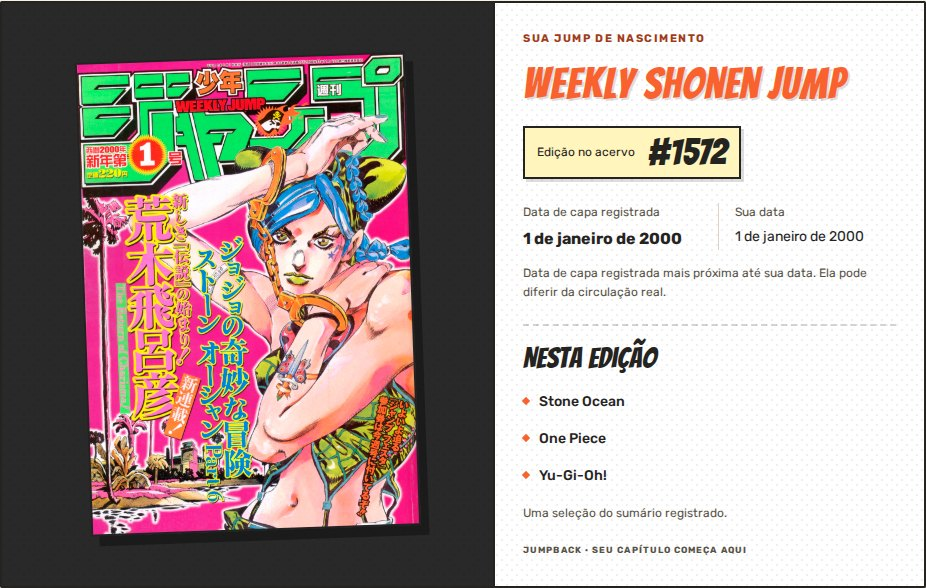
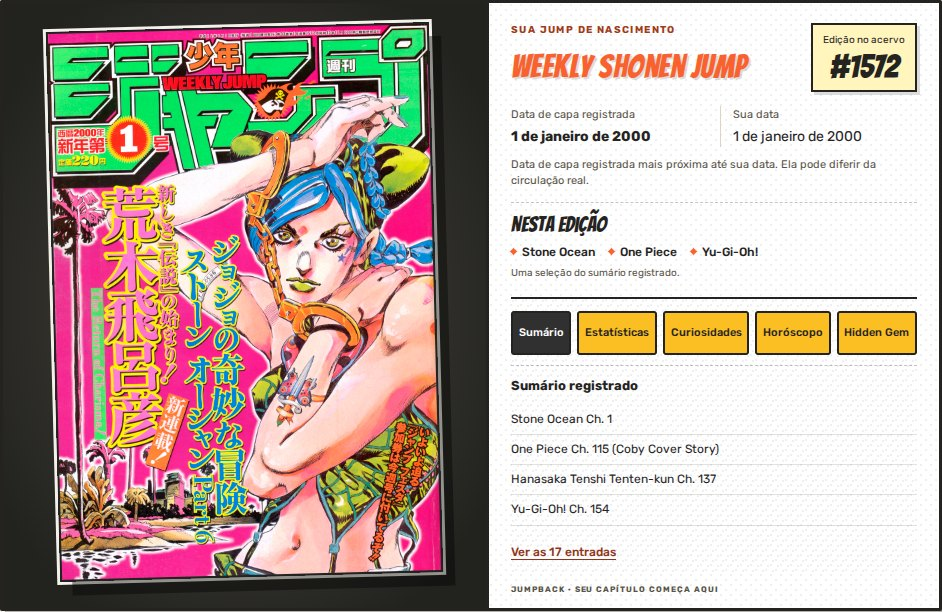
feat: compact results around a larger cover

diff --git a/src/css/reveal.css b/src/css/reveal.css
@@ -197,57 +197,66 @@ body.reveal-edition .date-picker:focus-visible { outline: 3px solid #146a9e; out
 .reveal-edition .mascot-panels-wrapper > .panel { display: flex; flex: 1; flex-direction: column; align-items: center; width: 100%; min-height: 230px; margin: 0; padding: 0; overflow: hidden; border: 3px solid var(--ink); background: white var(--comic-dot-pattern); box-shadow: 5px 5px 0 #0004; transform: skew(-1deg, -.5deg); }
 .reveal-edition .mascot-panels-wrapper .speech-bubble { align-self: stretch; max-width: none; margin: 14px 12px 8px; padding: 10px; font: 400 13px/1.5 var(--font-body); border: 2px solid var(--ink); border-radius: 14px; background: white; color: var(--ink); transform: skew(1deg, .5deg); z-index: 2; }
 .reveal-edition .mascot, .reveal-edition .mascot2 { flex: 1; width: 90%; max-width: none; height: 150px; min-height: 150px; margin: 0; background-size: contain; background-position: bottom center; background-repeat: no-repeat; animation: none; transform: skew(1deg, .5deg); }
-.results-page.reveal-edition .manga-page { display: flex; flex-direction: column; gap: 24px; }
+.results-page.reveal-edition .manga-page { display: flex; flex-direction: column; width: min(1120px, 100%); max-width: 1120px; gap: 16px; }
+body.results-page.reveal-edition { padding-block: 16px; }
+.results-page.reveal-edition .header-panel.masthead { height: 68px; min-height: 68px; }
+.results-page.reveal-edition .header-panel .logo { height: 96px; }
 .reveal-main { min-width: 0; }
 .result-status { margin: 0 0 18px; font-size: 13px; color: var(--muted-ink); }
 .result-status:empty { display: none; }
-.result-card.panel { display: grid; grid-template-columns: minmax(0, 1.15fr) minmax(0, 1fr); align-items: stretch; gap: 0; padding: 0; overflow: hidden; background: white; border: 2px solid var(--ink); border-radius: 2px; box-shadow: 5px 5px 0 #0004; transform: none; }
-.cover-stage { position: relative; display: flex; flex-direction: column; align-items: center; justify-content: center; gap: 12px; min-width: 0; min-height: 500px; padding: 30px; background: #292929 var(--comic-dot-pattern); border-right: 2px solid var(--ink); }
-.cover-stage .magazine-cover { display: block; width: 100%; max-width: 330px; height: auto; max-height: 510px; object-fit: contain; box-shadow: 8px 10px 0 #0005; transform: rotate(-2deg); }
-.cover-placeholder { display: grid; place-content: center; width: min(330px, 100%); min-height: 390px; padding: 24px; text-align: center; font: 400 28px var(--font-heading-comic); color: var(--muted-ink); background: #e2dac7; border: 2px dashed #a69d88; }
+.reveal-main[aria-busy='false'] > .result-status { position: absolute; width: 1px; height: 1px; overflow: hidden; clip-path: inset(50%); margin: 0; }
+.result-card.panel { display: grid; grid-template-columns: minmax(0, 1.08fr) minmax(0, 1fr); align-items: stretch; gap: 0; padding: 0; overflow: clip; background: white; border: 3px solid var(--ink); border-radius: 2px; box-shadow: 5px 5px 0 #0004; transform: none; }
+.cover-stage { position: relative; display: flex; flex-direction: column; align-items: center; justify-content: center; gap: 12px; min-width: 0; min-height: 540px; padding: 24px; background: radial-gradient(ellipse at center, #4b4940, #22221f 85%); border-right: 3px solid var(--ink); }
+.cover-stage .magazine-cover { display: block; width: auto; max-width: min(100%, 400px); height: auto; max-height: 550px; object-fit: contain; box-shadow: 12px 14px 0 #0006, 0 0 0 3px #f4f1ea; transform: rotate(-1.5deg); }
+.cover-placeholder { display: grid; place-content: center; width: min(380px, 100%); min-height: 430px; padding: 24px; text-align: center; font: 400 28px var(--font-heading-comic); color: var(--muted-ink); background: #e2dac7; border: 2px dashed #a69d88; }
 #coverStatus { font-size: 12px; color: #f4f1ea; text-align: center; }
 #coverStatus:empty { display: none; }
 #retryCoverButton { padding: 10px 14px; font: 500 13px var(--font-body); color: var(--ink); background: var(--comic-yellow); border: 2px solid var(--ink); cursor: pointer; }
-.reveal-copy { display: flex; flex-direction: column; align-items: flex-start; padding: 28px; background: white var(--comic-dot-pattern); }
-.reveal-copy > .eyebrow { color: #a03b19; }
-.reveal-copy h1 { max-width: 100%; margin: 14px 0 18px; font: 400 clamp(40px, 4.2vw, 52px)/1.08 var(--font-heading-comic); letter-spacing: .02em; color: var(--header-bg); text-shadow: 2px 2px 0 #0002; }
-.issue-stamp { display: inline-flex; flex-wrap: wrap; align-items: center; gap: 4px 12px; padding: 5px 12px; border: 2px solid var(--ink); background: #fff5bd; box-shadow: 3px 3px 0 #0002; font-size: 12px; }
-.issue-stamp strong { font: 400 36px/1.1 var(--font-heading-comic); }
-.date-facts { display: grid; grid-template-columns: repeat(2, minmax(0, 1fr)); width: 100%; gap: 16px; margin: 24px 0 14px; }
+.result-details { min-width: 0; display: flex; flex-direction: column; background: white var(--comic-dot-pattern); }
+.reveal-copy { display: grid; grid-template-columns: minmax(0, 1fr) auto; align-items: start; column-gap: 14px; padding: 20px 22px 16px; }
+.reveal-copy > .eyebrow { grid-column: 1; grid-row: 1; color: #a03b19; font-size: 10px; }
+.reveal-copy h1 { grid-column: 1; grid-row: 2; max-width: 100%; margin: 4px 0 0; font: 400 32px/1.03 var(--font-heading-comic); letter-spacing: .015em; color: var(--header-bg); text-shadow: 2px 2px 0 #0002; }
+.issue-stamp { grid-column: 2; grid-row: 1 / 3; align-self: center; display: inline-flex; flex-direction: column; align-items: center; gap: 3px; padding: 7px 10px; border: 2px solid var(--ink); background: #fff5bd; box-shadow: 3px 3px 0 #0002; font-size: 10px; }
+.issue-stamp strong { font: 400 32px/1 var(--font-heading-comic); }
+.date-facts { grid-column: 1 / -1; display: grid; grid-template-columns: repeat(2, minmax(0, 1fr)); width: 100%; gap: 12px; margin: 14px 0 10px; }
 .date-facts > div { min-width: 0; }
-.date-facts > div + div { padding-left: 16px; border-left: 1px solid #dcd5c6; }
-.date-facts dt { margin-bottom: 4px; font-size: 12px; color: var(--muted-ink); }
+.date-facts > div + div { padding-left: 12px; border-left: 1px solid #dcd5c6; }
+.date-facts dt { margin-bottom: 3px; font-size: 11px; color: var(--muted-ink); }
 .date-facts dd { margin: 0; font-size: 14px; line-height: 1.45; }
-.date-facts .reveal-date { font-size: 16px; font-weight: 700; }
-.reveal-copy .archive-note { max-width: 43ch; font-size: 12px; }
-.featured-series { width: 100%; margin-top: 22px; padding-top: 16px; border-top: 2px dashed #25231f33; }
-.featured-series h2 { font: 400 29px var(--font-heading-comic); }
-.featured-series ul { margin: 10px 0; list-style: none; }
-.featured-series li { padding: 8px 0; font-size: 14px; font-weight: 500; line-height: 1.5; overflow-wrap: anywhere; }
-.featured-series li::before { content: ''; display: inline-block; width: 6px; height: 6px; margin-right: 10px; vertical-align: 2px; background: var(--comic-orange); transform: rotate(45deg); }
-.card-signature { margin-top: auto; padding-top: 20px; font-size: 9px; font-weight: 700; letter-spacing: .12em; color: var(--muted-ink); }
-.result-toolbar { display: grid; grid-template-columns: minmax(0, 1fr) auto; align-items: center; gap: 12px 24px; margin-top: 22px; }
+.date-facts .reveal-date { font-size: 14px; font-weight: 700; }
+.reveal-copy .archive-note { grid-column: 1 / -1; max-width: 54ch; font-size: 11px; line-height: 1.5; }
+.featured-series { grid-column: 1 / -1; width: 100%; margin-top: 12px; padding-top: 10px; border-top: 1px dashed #25231f44; }
+.featured-series h2 { font: 400 21px/1.1 var(--font-heading-comic); }
+.featured-series ul { display: flex; flex-wrap: wrap; gap: 5px 14px; margin: 7px 0 0; list-style: none; }
+.featured-series li { padding: 0; font-size: 12px; font-weight: 500; line-height: 1.5; overflow-wrap: anywhere; }
+.featured-series li::before { content: ''; display: inline-block; width: 5px; height: 5px; margin-right: 6px; vertical-align: 2px; background: var(--comic-orange); transform: rotate(45deg); }
+.featured-series .small-note { margin-top: 4px; font-size: 10px; }
+.card-signature { margin-top: auto; padding: 10px 22px 12px; font-size: 8px; font-weight: 700; letter-spacing: .12em; color: var(--muted-ink); }
+.result-toolbar { display: grid; grid-template-columns: minmax(0, 1fr) auto; align-items: center; gap: 10px 20px; margin-top: 16px; }
+.result-actions .manga-button { min-height: 46px; padding: 10px 16px; font-size: 13px; }
 .result-actions { grid-column: 2; grid-row: 1; display: flex; justify-content: flex-end; flex-wrap: wrap; gap: 12px; }
 .share-status { grid-column: 1 / -1; font-size: 13px; text-align: right; }
 .share-status:empty { display: none; }
 .share-note { grid-column: 1; grid-row: 1; max-width: 38ch; margin: 0; text-align: left; font-size: 12px; }
 #manualShare { grid-column: 1 / -1; padding: 18px; border: 1px solid #cfc8b7; background: #fff5bd; font-size: 13px; }
 #shareURL { display: block; width: 100%; margin-top: 8px; padding: 12px; font: inherit; background: white; border: 1px solid #b8b09e; }
-.explore-panel.panel { display: grid; grid-template-columns: minmax(0, 1fr) auto; column-gap: 24px; margin-top: 28px; padding: 24px; border: 3px solid var(--ink); background: white var(--comic-dot-pattern); box-shadow: 5px 5px 0 #0004; transform: none; }
-.explore-eyebrow { grid-column: 1; grid-row: 1; color: #a03b19; }
-.explore-panel > h2 { grid-column: 1; grid-row: 2; margin-top: 4px; font: 400 36px/1.1 var(--font-heading-comic); }
-.explore-tabs { grid-column: 2; grid-row: 1 / 3; align-self: center; display: flex; flex-wrap: wrap; gap: 8px; margin: 0; padding: 3px; }
-.explore-tab { flex: none; min-height: 46px; padding: 10px 12px; font: 500 13px var(--font-body); color: var(--ink); background: var(--tab-bg); border: 2px solid var(--ink); border-radius: 3px; cursor: pointer; }
+.explore-panel.panel, .explore-panel.panel:hover { display: block; margin: 0 22px; padding: 12px 0 0; border: 0; border-top: 2px solid var(--ink); border-radius: 0; background: transparent; box-shadow: none; transform: none; }
+.explore-eyebrow { display: none; }
+.explore-panel > h2 { position: absolute; width: 1px; height: 1px; overflow: hidden; clip-path: inset(50%); }
+.explore-tabs { display: flex; flex-wrap: wrap; gap: 6px; margin: 0; padding: 0; }
+.explore-tab { flex: 1 0 auto; min-height: 44px; padding: 5px; font: 500 11px var(--font-body); color: var(--ink); background: var(--tab-bg); border: 2px solid var(--ink); border-radius: 3px; cursor: pointer; }
 .explore-tab:hover { color: var(--ink); background: var(--accent-color); }
 .explore-tab:focus-visible { outline-offset: -3px; }
 .explore-tab[aria-selected='true'] { color: white; background: #303030; }
-.explore-content { grid-column: 1 / -1; min-width: 0; min-height: 120px; margin-top: 20px; padding: 20px 0 0; border-top: 2px dashed #25231f33; font-size: 14px; line-height: 1.7; overflow-wrap: anywhere; }
-.explore-content h3 { margin-bottom: 16px; font-size: 16px; }
+.explore-content { min-width: 0; min-height: 120px; margin-top: 10px; padding: 10px 0 0; border-top: 1px dashed #25231f44; font-size: 13px; line-height: 1.6; overflow-wrap: anywhere; }
+.explore-content h3 { margin-bottom: 8px; font-size: 13px; }
 .explore-content ul { max-width: 70ch; margin-left: 20px; }
-.explore-content li { margin-bottom: 11px; padding-left: 4px; }
-.explore-content p { max-width: 70ch; margin-bottom: 14px; }
-#contentsTabPanel ul { display: grid; grid-template-columns: repeat(2, minmax(0, 1fr)); column-gap: 32px; max-width: none; margin: 0; list-style: none; }
-#contentsTabPanel li { min-width: 0; margin: 0; padding: 12px 0; border-bottom: 1px solid #25231f22; }
+.explore-content li { margin-bottom: 8px; padding-left: 4px; }
+.explore-content p { max-width: 70ch; margin-bottom: 10px; }
+#contentsTabPanel ul { max-width: none; margin: 0; list-style: none; }
+#contentsTabPanel li { min-width: 0; margin: 0; padding: 5px 0; border-bottom: 1px solid #25231f22; font-size: 12px; }
+.contents-preview li:nth-child(n + 5) { display: none; }
+.contents-toggle { min-height: 44px; margin-top: 4px; padding: 8px 0; border: 0; background: transparent; color: #8f3519; font: 500 12px var(--font-body); text-decoration: underline; text-underline-offset: 3px; cursor: pointer; }
 .tag-counts meter { display: block; width: min(340px, 100%); height: 18px; }
 .source-note { font-style: italic; }
 .error-panel.panel { gap: 18px; padding: 44px 30px; text-align: center; border: 2px solid var(--ink); background: #fff5bd; transform: none; }
@@ -258,13 +267,13 @@ body.reveal-edition .date-picker:focus-visible { outline: 3px solid #146a9e; out
 .is-revealed .reveal-copy { animation: reveal-copy 320ms ease-out both; }
 @keyframes reveal-card { from { opacity: .5; transform: translateY(6px); } to { opacity: 1; transform: none; } }
 @keyframes reveal-copy { from { opacity: .5; } to { opacity: 1; } }
+@media (min-width: 701px) {
+  .cover-stage { justify-content: flex-start; }
+  .cover-stage .magazine-cover { position: sticky; top: 24px; }
+}
 @media (max-width: 1000px) {
   .reveal-edition .input-panel { padding: 30px 24px 20px; }
   .reveal-edition .mascot-panels-wrapper .speech-bubble { font-size: 12px; margin-inline: 10px; padding: 10px; }
-}
-@media (max-width: 900px) {
-  .explore-panel.panel { grid-template-columns: minmax(0, 1fr); }
-  .explore-tabs { grid-column: 1; grid-row: 3; margin-top: 18px; }
 }
 @media (max-width: 700px) {
   body.reveal-edition { padding: 12px 10px 22px; }
@@ -290,28 +299,26 @@ body.reveal-edition .date-picker:focus-visible { outline: 3px solid #146a9e; out
   .reveal-edition .mascot-panels-wrapper > .panel { display: flex; flex-direction: column; min-height: 230px; }
   .reveal-edition .mascot-panels-wrapper .speech-bubble { margin: 10px 8px 0; font-size: 12px; padding: 9px; }
   .reveal-edition .mascot, .reveal-edition .mascot2 { min-height: 125px; width: 100%; height: 150px; margin: 0; }
-  .result-status { font-size: 12px; margin-bottom: 14px; }
   .result-card.panel { grid-template-columns: 1fr; }
-  .cover-stage { min-height: 0; padding: 24px 26px; border-right: 0; border-bottom: 2px solid var(--ink); }
-  .cover-stage .magazine-cover { max-width: 200px; max-height: 280px; }
-  .cover-placeholder { width: 230px; max-width: 100%; min-height: 300px; }
-  .reveal-copy { padding: 25px 20px 22px; }
-  .reveal-copy h1 { max-width: none; font-size: clamp(34px, 10vw, 44px); }
-  .date-facts { gap: 12px; margin-top: 18px; }
-  .featured-series { margin-top: 20px; padding-top: 15px; }
-  .card-signature { font-size: 8px; }
-  .result-toolbar { grid-template-columns: minmax(0, 1fr); margin-top: 18px; }
+  .cover-stage { min-height: 0; padding: 18px 24px; border-right: 0; border-bottom: 3px solid var(--ink); }
+  .cover-stage .magazine-cover { max-width: min(100%, 240px); max-height: 320px; }
+  .cover-placeholder { width: 220px; max-width: 100%; min-height: 300px; }
+  .reveal-copy { padding: 16px; column-gap: 10px; }
+  .reveal-copy h1 { font-size: 28px; }
+  .reveal-copy > .eyebrow { font-size: 9px; letter-spacing: .08em; }
+  .issue-stamp { padding: 6px; font-size: 9px; }
+  .issue-stamp strong { font-size: 28px; }
+  .date-facts { gap: 10px; margin-top: 12px; }
+  .date-facts dd, .date-facts .reveal-date { font-size: 12px; }
+  .date-facts dt { font-size: 10px; }
+  .card-signature { padding-inline: 16px; }
+  .result-toolbar { grid-template-columns: minmax(0, 1fr); margin-top: 12px; }
   .result-actions { position: fixed; z-index: 10; bottom: max(12px, env(safe-area-inset-bottom)); left: 12px; right: 12px; justify-content: stretch; flex-wrap: nowrap; gap: 8px; margin: 0; padding: 9px; border: 1px solid #cfc8b7; border-radius: 5px; box-shadow: 0 4px 20px #25231f24; background: var(--paper); }
   .result-actions .manga-button { flex: 1; min-height: 48px; padding: 10px 12px; font-size: 12px; }
   .result-actions .secondary-button { flex: .7; }
   .share-status, .share-note { grid-column: 1; grid-row: auto; max-width: none; text-align: left; }
   #manualShare { scroll-margin-block: 100px; }
-  .explore-panel.panel { margin-top: 28px; padding: 22px 12px; }
-  .explore-panel > h2 { font-size: 36px; }
-  .explore-tabs { flex-wrap: wrap; gap: 8px; margin-top: 16px; padding: 0 0 6px; overflow: visible; }
-  .explore-tab { flex: 1 0 auto; }
-  .explore-content { font-size: 13px; }
-  #contentsTabPanel ul { grid-template-columns: minmax(0, 1fr); }
+  .explore-panel.panel { margin-inline: 16px; }
   .reveal-edition .site-footer-info { font-size: 10px; }
 }
 @media (max-width: 380px) {

diff --git a/src/br/results.html b/src/br/results.html
@@ -41,6 +41,7 @@
    <figcaption id="coverStatus" role="status"></figcaption>
    <button id="retryCoverButton" type="button" hidden>Tentar carregar a capa</button>
   </figure>
+  <div class="result-details">
   <div class="reveal-copy">
    <p class="eyebrow">SUA JUMP DE NASCIMENTO</p>
    <h1 id="resultTitle">Weekly Shonen Jump</h1>
@@ -52,18 +53,7 @@
     <ul id="featuredSeries"></ul>
     <p class="small-note">Uma seleção do sumário registrado.</p>
    </section>
-   <p class="card-signature">JUMPBACK · SEU CAPÍTULO COMEÇA AQUI</p>
   </div>
- </article>
- <div class="result-toolbar">
- <div class="result-actions">
-  <a id="backButton" class="manga-button secondary-button" href="index.html">Trocar data</a>
-  <button id="shareButton" class="manga-button" type="button" disabled>Compartilhar minha Jump <span aria-hidden="true">↗</span></button>
- </div>
- <p id="shareStatus" class="share-status" role="status" aria-live="polite"></p>
- <div id="manualShare" hidden><label for="shareURL">Copie este link (ele contém a data escolhida):</label><input id="shareURL" readonly type="url"></div>
- <p class="small-note share-note">Tire um print do cartão ou compartilhe o link com a data escolhida.</p>
- </div>
  <section id="explorePanel" class="panel explore-panel" aria-labelledby="exploreTitle" hidden>
   <p class="eyebrow explore-eyebrow">TEM MAIS NESTAS PÁGINAS</p>
   <h2 id="exploreTitle">Vire a página</h2>
@@ -80,5 +70,18 @@
 <section id="horoscopeTabPanel" class="explore-content" role="tabpanel" tabindex="0" aria-labelledby="horoscopeTabButton" hidden></section>
 <section id="hiddenGemTabPanel" class="explore-content" role="tabpanel" tabindex="0" aria-labelledby="hiddenGemTabButton" hidden></section>
  </section>
+   <p class="card-signature">JUMPBACK · SEU CAPÍTULO COMEÇA AQUI</p>
+  </div>
+ </article>
+ <div class="result-toolbar">
+ <div class="result-actions">
+  <a id="backButton" class="manga-button secondary-button" href="index.html">Trocar data</a>
+  <button id="shareButton" class="manga-button" type="button" disabled>Compartilhar minha Jump <span aria-hidden="true">↗</span></button>
+ </div>
+ <p id="shareStatus" class="share-status" role="status" aria-live="polite"></p>
+ <div id="manualShare" hidden><label for="shareURL">Copie este link (ele contém a data escolhida):</label><input id="shareURL" readonly type="url"></div>
+ <p class="small-note share-note">Tire um print do cartão ou compartilhe o link com a data escolhida.</p>
+ </div>
+
 </main></div><noscript><p class="panel">Ative o JavaScript para pesquisar neste acervo estático.</p></noscript><footer class="site-footer-info"><p>Feito por <a href="https://github.com/oliveruh" target="_blank" rel="noopener noreferrer">oliveruh</a></p>
  <a class="tip-button manga-button" href="https://www.paypal.com/donate/?hosted_button_id=Z74ZYG2XLA4KQ" target="_blank" rel="noopener noreferrer">Apoie o projeto</a></footer></body></html>

diff --git a/src/results.html b/src/results.html
@@ -41,6 +41,7 @@
    <figcaption id="coverStatus" role="status"></figcaption>
    <button id="retryCoverButton" type="button" hidden>Retry cover</button>
   </figure>
+  <div class="result-details">
   <div class="reveal-copy">
    <p class="eyebrow">YOUR BIRTH JUMP</p>
    <h1 id="resultTitle">Weekly Shonen Jump</h1>
@@ -52,18 +53,7 @@
     <ul id="featuredSeries"></ul>
     <p class="small-note">A selection from the recorded contents.</p>
    </section>
-   <p class="card-signature">JUMPBACK · YOUR CHAPTER STARTS HERE</p>
   </div>
- </article>
- <div class="result-toolbar">
- <div class="result-actions">
-  <a id="backButton" class="manga-button secondary-button" href="index.html">Change date</a>
-  <button id="shareButton" class="manga-button" type="button" disabled>Share my Jump <span aria-hidden="true">↗</span></button>
- </div>
- <p id="shareStatus" class="share-status" role="status" aria-live="polite"></p>
- <div id="manualShare" hidden><label for="shareURL">Copy this link (it includes your selected date):</label><input id="shareURL" readonly type="url"></div>
- <p class="small-note share-note">Screenshot the card, or share a link containing your selected date.</p>
- </div>
  <section id="explorePanel" class="panel explore-panel" aria-labelledby="exploreTitle" hidden>
   <p class="eyebrow explore-eyebrow">THERE’S MORE INSIDE</p>
   <h2 id="exploreTitle">Turn the page</h2>
@@ -80,5 +70,18 @@
 <section id="horoscopeTabPanel" class="explore-content" role="tabpanel" tabindex="0" aria-labelledby="horoscopeTabButton" hidden></section>
 <section id="hiddenGemTabPanel" class="explore-content" role="tabpanel" tabindex="0" aria-labelledby="hiddenGemTabButton" hidden></section>
  </section>
+   <p class="card-signature">JUMPBACK · YOUR CHAPTER STARTS HERE</p>
+  </div>
+ </article>
+ <div class="result-toolbar">
+ <div class="result-actions">
+  <a id="backButton" class="manga-button secondary-button" href="index.html">Change date</a>
+  <button id="shareButton" class="manga-button" type="button" disabled>Share my Jump <span aria-hidden="true">↗</span></button>
+ </div>
+ <p id="shareStatus" class="share-status" role="status" aria-live="polite"></p>
+ <div id="manualShare" hidden><label for="shareURL">Copy this link (it includes your selected date):</label><input id="shareURL" readonly type="url"></div>
+ <p class="small-note share-note">Screenshot the card, or share a link containing your selected date.</p>
+ </div>
+
 </main></div><noscript><p class="panel">Enable JavaScript to search this static archive.</p></noscript><footer class="site-footer-info"><p>Made by <a href="https://github.com/oliveruh" target="_blank" rel="noopener noreferrer">oliveruh</a></p>
  <a class="tip-button manga-button" href="https://www.paypal.com/donate/?hosted_button_id=Z74ZYG2XLA4KQ" target="_blank" rel="noopener noreferrer">Tip me</a></footer></body></html>

diff --git a/src/scripts/shared/results.js b/src/scripts/shared/results.js
@@ -158,7 +158,24 @@ function setupExplore(issue, birthDate) {
             const list = node('ul');
             list.lang = 'en';
             for (const entry of issue.table_of_contents) list.append(node('li', entry.title));
-            panel.append(list);
+            if (list.childElementCount > 4) {
+                list.classList.add('contents-preview');
+                const button = node('button', text(
+                    `Show all ${list.childElementCount} entries`,
+                    `Ver as ${list.childElementCount} entradas`), 'contents-toggle');
+                list.id = 'recordedContents';
+                button.setAttribute('aria-controls', list.id);
+                button.setAttribute('aria-expanded', 'false');
+                button.type = 'button';
+                button.addEventListener('click', () => {
+                    const expanded = button.getAttribute('aria-expanded') !== 'true';
+                    button.setAttribute('aria-expanded', String(expanded));
+                    list.classList.toggle('contents-preview', !expanded);
+                    button.textContent = expanded ? text('Show fewer entries', 'Mostrar menos entradas')
+                        : text(`Show all ${list.childElementCount} entries`, `Ver as ${list.childElementCount} entradas`);
+                });
+                panel.append(list, button);
+            } else panel.append(list);
             if (!list.childElementCount) empty(panel);
             return;
         }

diff --git a/docs/dev-alley-2027.md b/docs/dev-alley-2027.md
@@ -311,4 +311,50 @@ still apply. Images above now show the latest composition.
 
 ![Complete result page with the refined composition](images/classic-results.jpg)
 
+### Compact result spread with a larger cover
+
+The latest result layout supersedes the earlier full-width extras panel:
+
+- A wider result page (up to 1120px) places the cover beside one compact details
+  column containing metadata, the three featured series and all five extras tabs.
+  Home-page composition is unchanged.
+- The cover can reach 400px wide / 550px high, with its original proportions, a
+  paper outline and a dark radial backing. On desktop it stays near the top while
+  longer extras are explored. Mobile allows up to 240px wide / 320px high.
+- A smaller masthead, compact title/stamp row, inline featured-series list and
+  reduced spacing remove redundant vertical gaps. The success announcement stays
+  accessible to assistive technology without taking a separate visible row.
+- Contents initially show four complete source entries. A localized native button
+  expands/reduces the full list, exposes `aria-expanded` / `aria-controls`, and
+  preserves its state when switching tabs. No source entries or titles are removed
+  or truncated. The other extras retain normal page scrolling when needed.
+- No historical data, matching logic, analytics, dependencies or deployment changed.
+
+Measured with the same cached original 2000-01-01 cover, loaded local fonts,
+reduced motion and Chromium, comparing the preceding commit with this layout:
+
+| Viewport | Language | Before: document height | After: document height |
+| --- | --- | ---: | ---: |
+| 1024 × 900 | EN / PT-BR | 1636px | 900px |
+| 1440 × 900 | EN / PT-BR | 1702px | 900px |
+| 390 × 844 | PT-BR | 2473px | 1368px |
+
+At both desktop sizes the default result, all tabs, four-entry contents preview,
+actions and footer fit without document scrolling. The cover's rendered bounds
+at 1024px increased from approximately 346×485px to 397×560px (including rotation).
+This is a layout measurement, not a loading-performance claim. Expanding the
+contents, selecting longer extras, using shorter/narrower viewports or enlarging
+text can still require scrolling. Mobile retains normal page scroll and the fixed
+actions; the larger cover is never cropped to force a fixed-height screen.
+
+Validation: 9 automated tests and **46 browser scenarios passed**, including new
+EN/PT keyboard tests for expansion, collapse and state retention across tabs.
+Before/after checks covered both languages at 320, 390, 768, 1024 and 1440px with
+the real cached cover; all had no horizontal overflow. Additional existing home
+and result viewport checks passed. Desktop/mobile and expanded-list captures were
+visually reviewed. Physical-device, Safari/Firefox and screen-reader limitations
+remain as documented above.
+
+![Compact mobile result with the larger cover](images/compact-result-mobile.jpg)
+
 The implementation remains on the working feature branch; no deployment was made.
